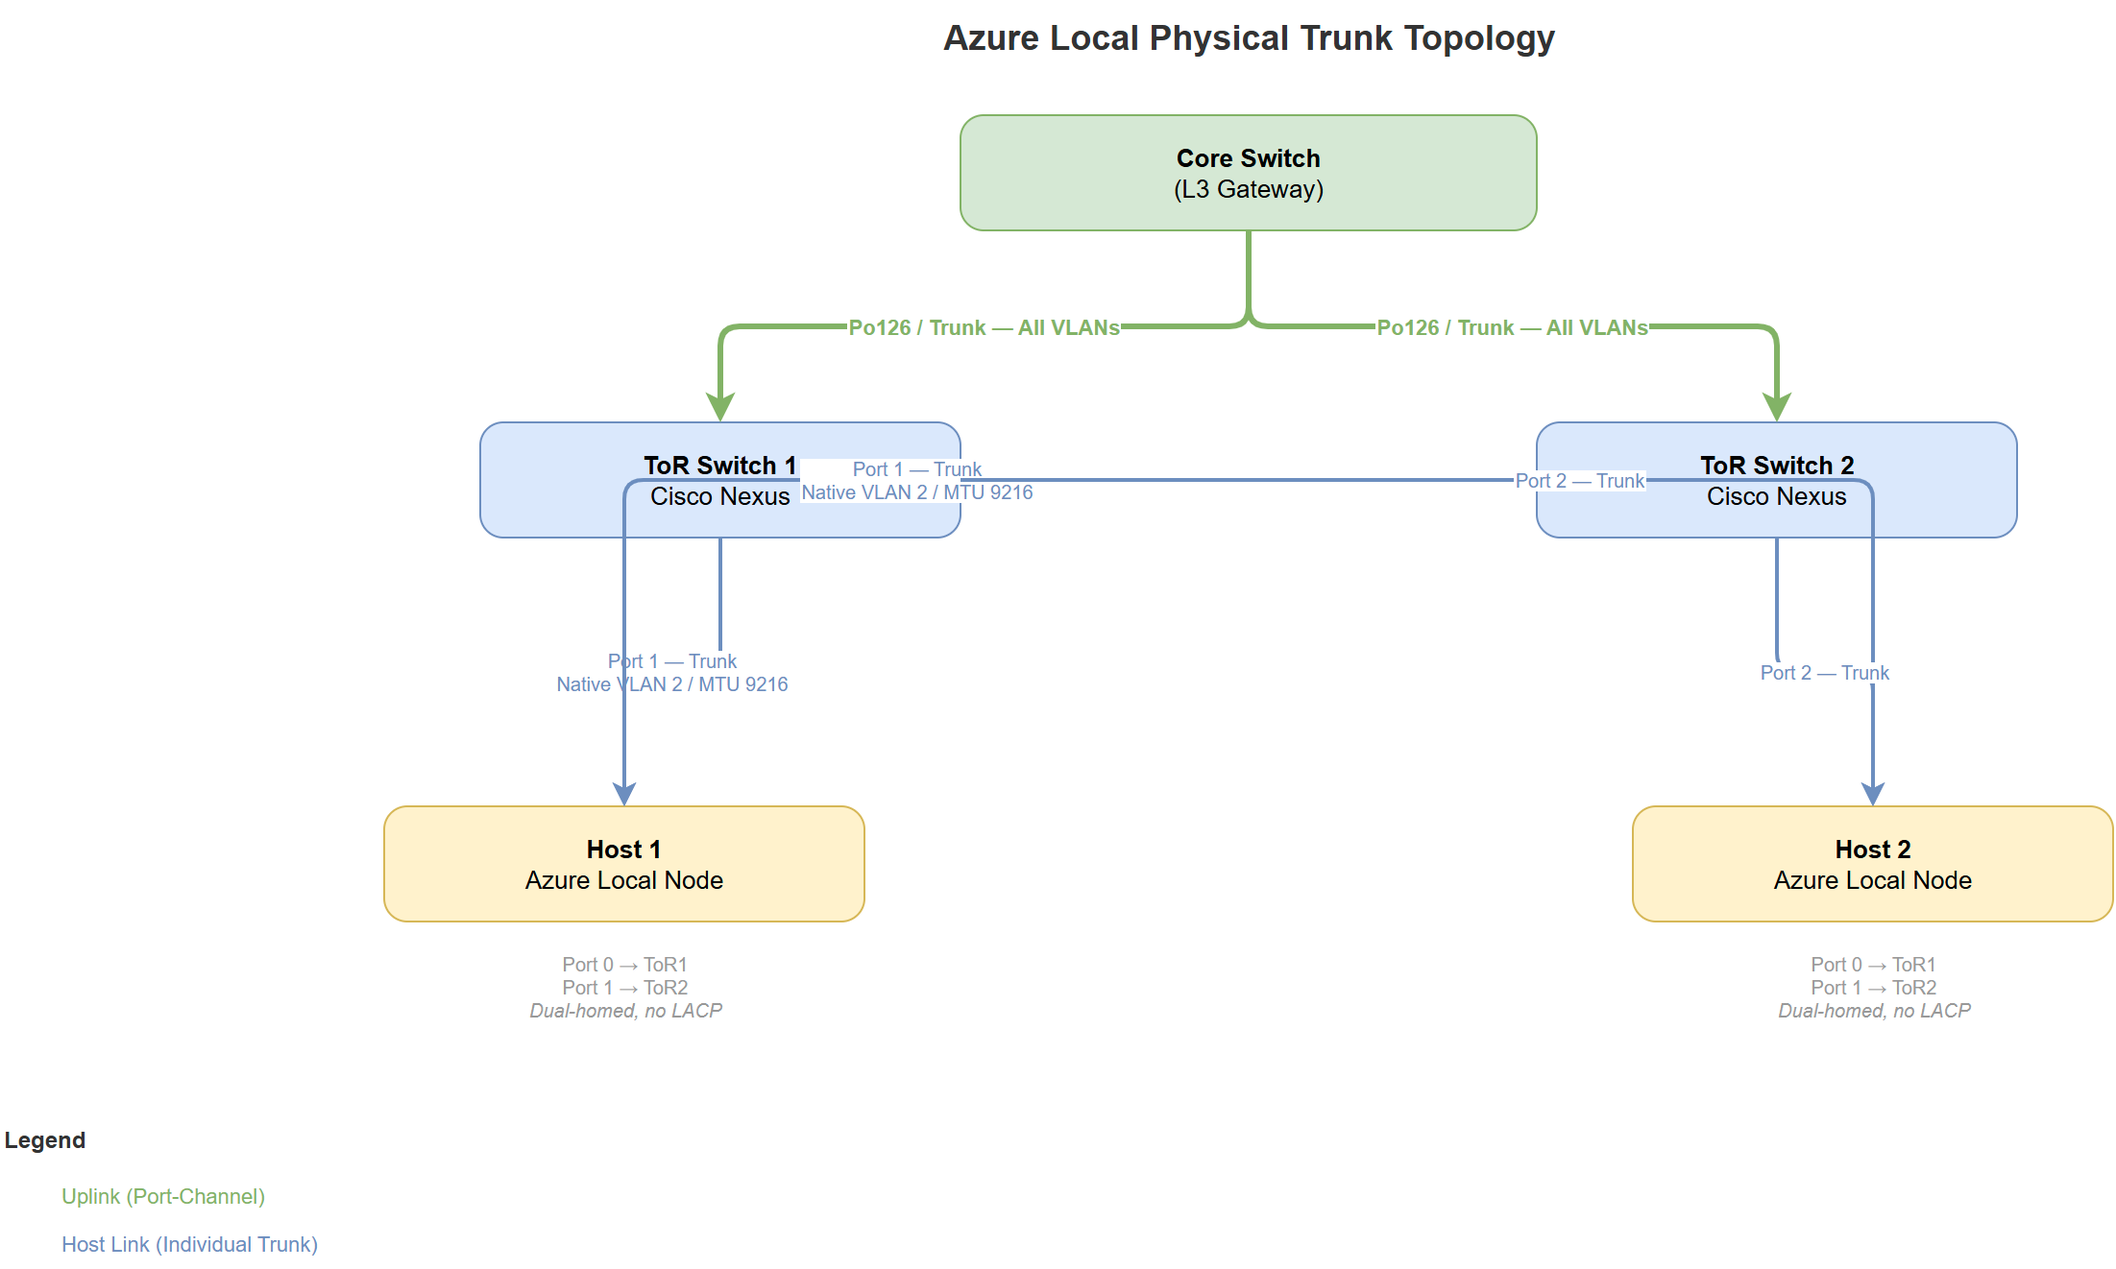
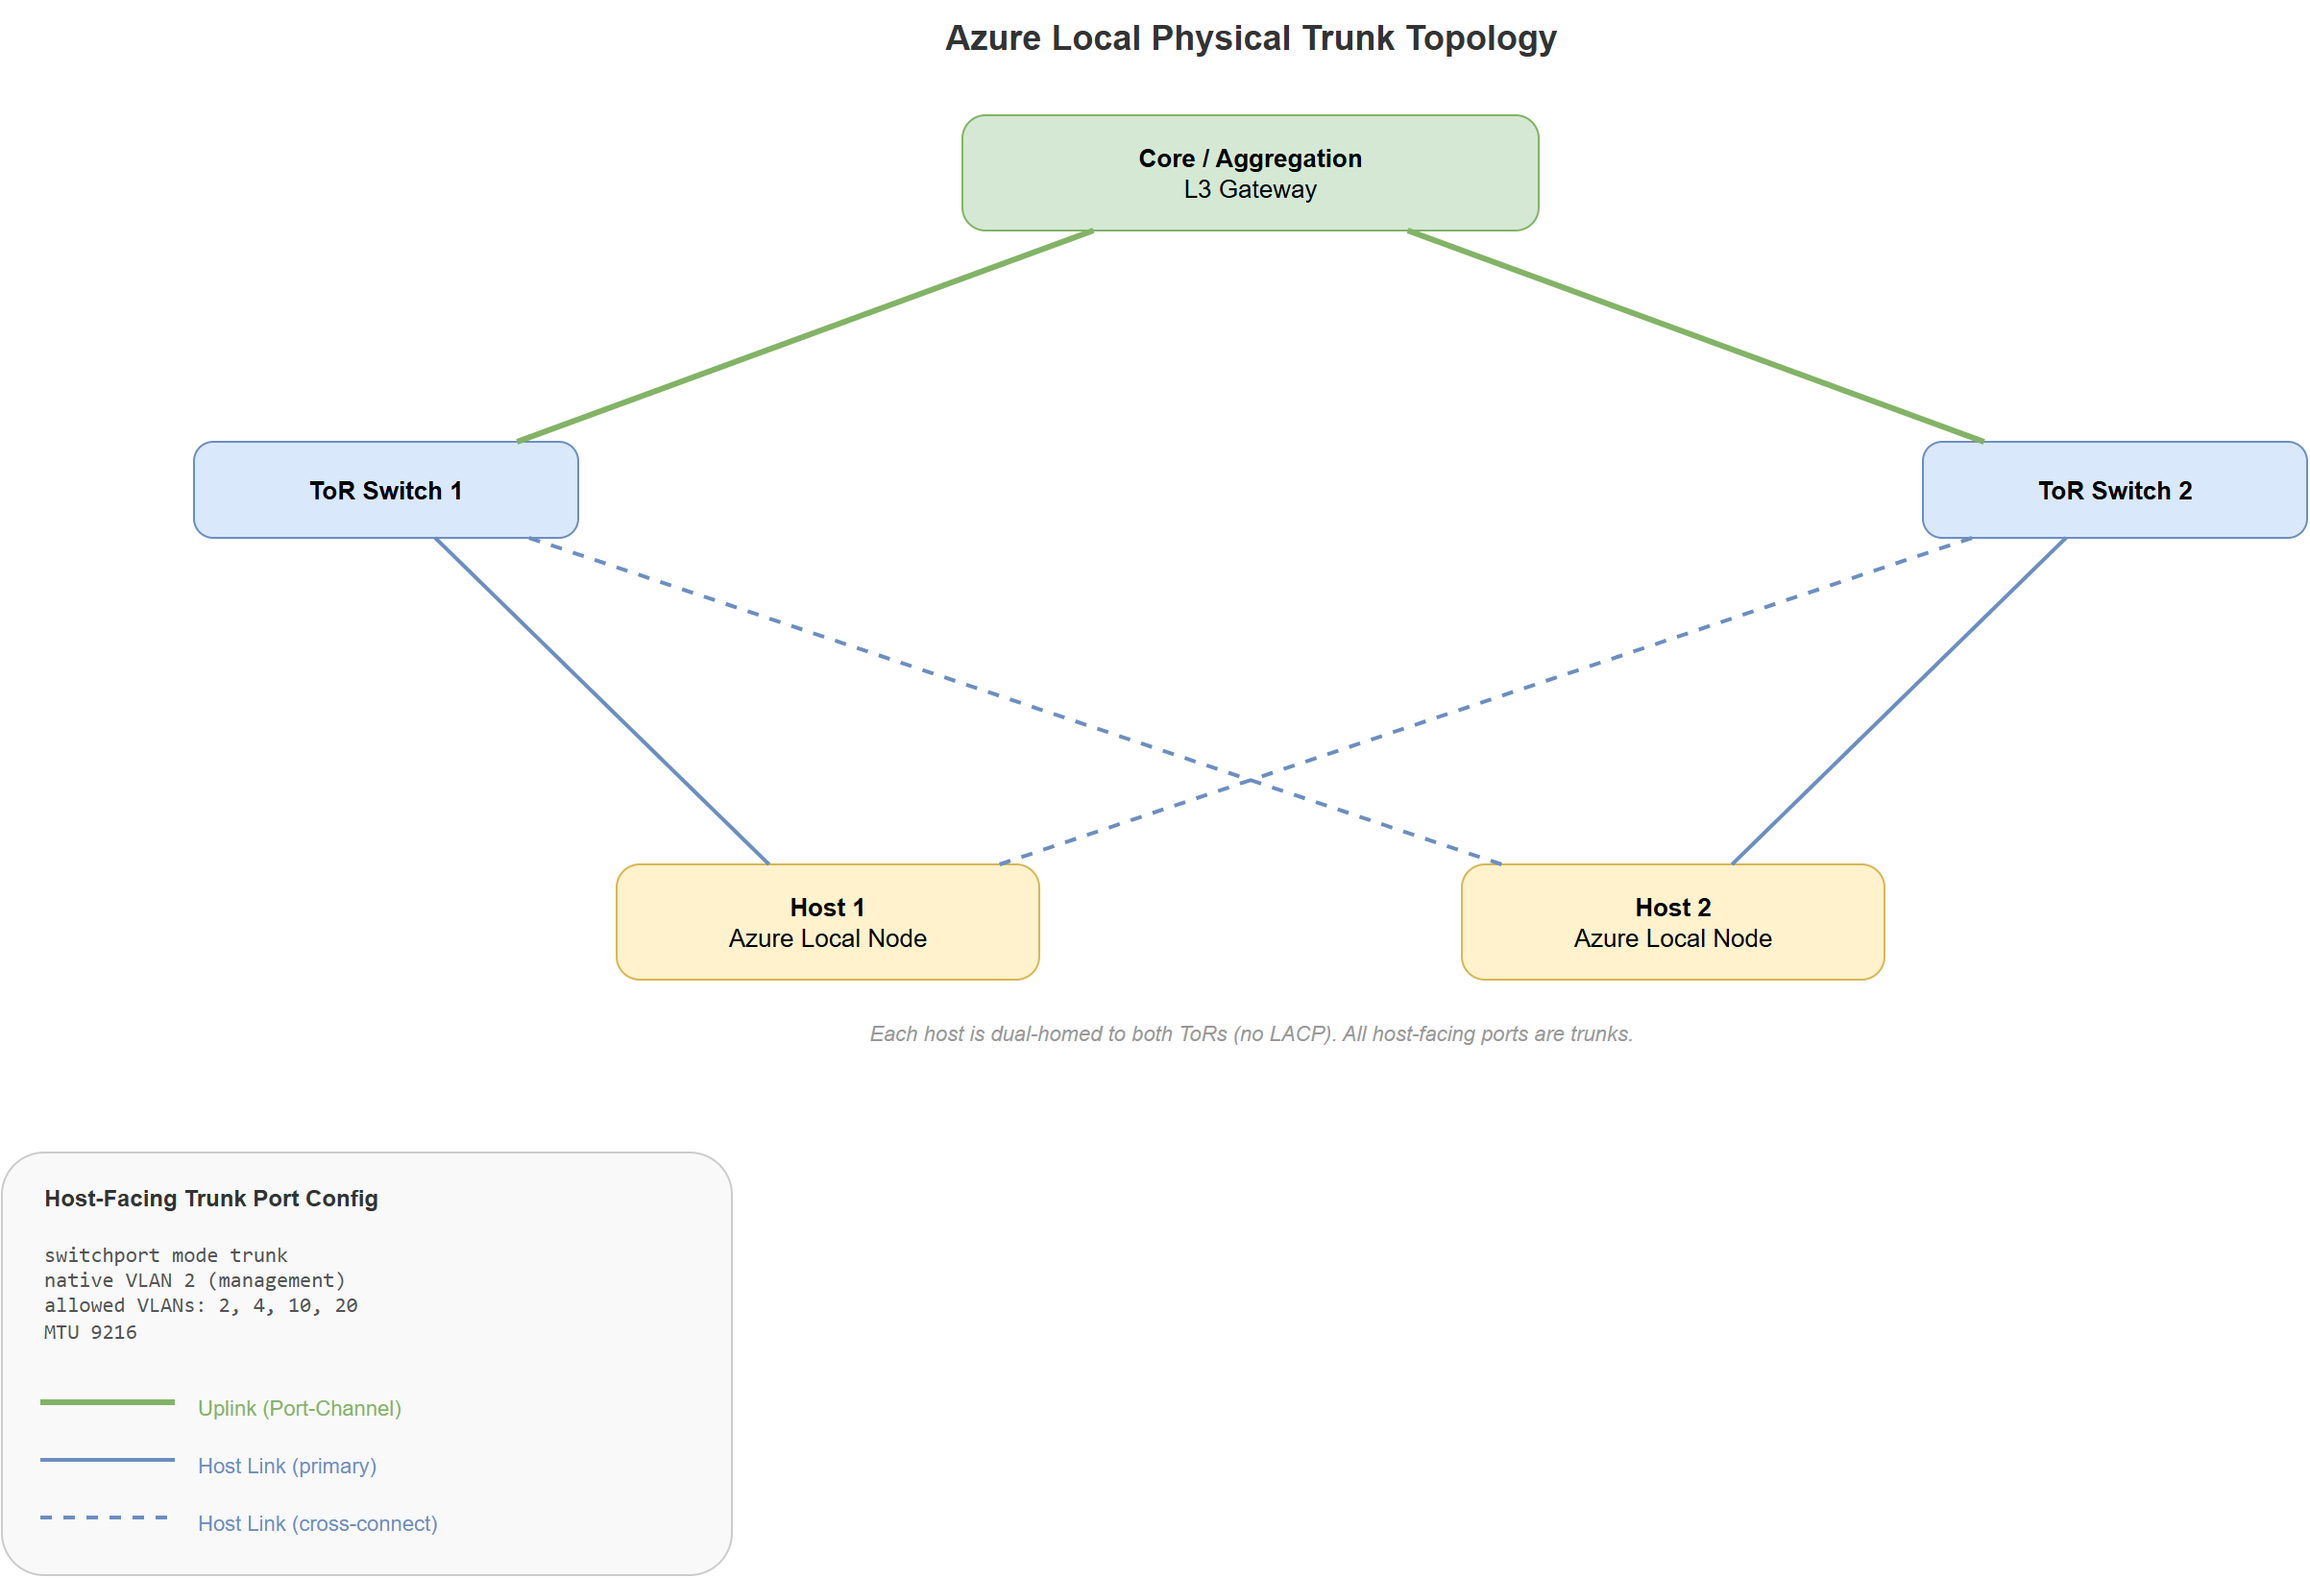
fix: redesign topology diagram and scope article to tenant workloads
- Redesigned diagram 01 with straight edges and dashed cross-connects
  to eliminate text/line overlap through ToR boxes
- Reframed article intro: management uses native VLAN (just works),
  tenant VLANs are where trunk-mode mistakes happen
- Updated switch config callouts to distinguish management vs tenant
- Updated meta description for tenant workload focus

diff --git a/_drafts/2026-03-06-azure-local-vm-vlan-tagging-guide.md b/_drafts/2026-03-06-azure-local-vm-vlan-tagging-guide.md
@@ -5,23 +5,25 @@ date: 2026-03-06 00:00:00 -0800
 categories: [networking, azure-local]
 tags: [azure-local, hyper-v, vlan, trunking, vswitch, sriov, netintent, vm-networking]
 author: ebmarquez
-description: "Azure Local VMs in VLAN trunk mode work on one host but fail cross-host. Here's why Access mode with multiple vNICs is the correct pattern."
+description: "Azure Local tenant VMs in VLAN trunk mode work on one host but fail cross-host. Here's why Access mode with multiple vNICs is the correct pattern for tenant workloads."
 image:
   path: /assets/img/azure-local-vm-vlan-tagging/01-physical-trunk-topology.png
   alt: "Diagram showing host-to-ToR trunk topology in an Azure Local cluster"
 ---
 
-You've got a VM on Azure Local that needs to talk on VLAN 4. You configure the VM NIC in trunk mode, set up a VLAN sub-interface inside the guest, and test. It works — but only when the other VM is on the same host. The moment you try to reach a VM on a different host, nothing. ARP requests leave, but replies never come back.
+You've got a tenant VM on Azure Local that needs to talk on VLAN 4. You see the ToR switch port is a trunk carrying multiple VLANs, so you configure the VM NIC in trunk mode, set up a VLAN sub-interface inside the guest, and test. It works — but only when the other VM is on the same host. The moment you try to reach a VM on a different host, nothing. ARP requests leave, but replies never come back.
 
-This keeps coming up. It's one of the most common networking misconfigurations in Azure Local environments, and it's not obvious why it fails. The mental model from physical networking doesn't map cleanly to how Azure Local handles VLAN tagging.
+This keeps coming up, specifically with **tenant workloads**. In a typical Azure Local deployment, management traffic rides the native VLAN (untagged) and just works. But when customers need tenant VMs on tagged VLANs, they see those trunk ports on the ToR and assume the VM needs to do its own VLAN tagging. It doesn't — and that assumption is where things break.
 
-Let's fix that.
+Let's fix that mental model.
 
 ## The Physical Trunk — Quick Refresher
 
 Before we touch virtualization, let's ground ourselves in how physical trunking works. If you already live in this world, skip ahead.
 
-In a typical Azure Local deployment, each host connects to two Top-of-Rack (ToR) switches. These links carry **multiple VLANs** — management, storage, live migration, and VM workload traffic all share the same physical interfaces. That means the switch ports must be **trunk ports**, not access ports.
+In a typical Azure Local deployment, each host connects to two Top-of-Rack (ToR) switches. These links carry **multiple VLANs** — management, storage, live migration, and tenant VM traffic all share the same physical interfaces. That means the switch ports must be **trunk ports**.
+
+The important distinction: **management traffic uses the native VLAN** (untagged on the wire), while **tenant VLANs are tagged**. The switch handles both on the same trunk port — native VLAN for management, 802.1Q tags for everything else.
 
 ![Physical trunk topology showing hosts dual-homed to two ToR switches](/assets/img/azure-local-vm-vlan-tagging/01-physical-trunk-topology.png)
 _Each host is dual-homed to two ToR switches. All host-facing ports are trunks carrying multiple VLANs._
@@ -41,10 +43,11 @@ Key points:
 
 - **Trunk mode** means the port sends and receives 802.1Q tagged frames
 - **Allowed VLANs** restrict which VLANs can traverse this link
-- **Native VLAN** handles untagged traffic — anything without a tag gets assigned to VLAN 2
+- **Native VLAN 2** is management — this traffic is untagged on the wire and just works
+- **VLANs 4, 10, 20** are tenant VLANs — these are the tagged VLANs where the tagging question matters
 - The host-to-switch link is always a trunk because multiple traffic types share it
 
-This is straightforward. The complexity starts when you add the Hyper-V virtual switch into the picture.
+This is where the confusion starts. Admins see "trunk" on the physical port and assume tenant VMs need trunk mode too. They don't.
 
 ## The Three Hyper-V VLAN Modes
 
@@ -61,7 +64,7 @@ Set-VMNetworkAdapterVlan -VMName 'myVM' -Untagged
 
 The VM sends plain Ethernet frames. The vSwitch passes them through without modification. On the wire, they arrive at the switch **untagged**, and the switch assigns them to whatever native VLAN is configured on that trunk port.
 
-Use this when the VM only needs to be on the native VLAN and the switch port handles everything.
+This is how **management traffic** works on Azure Local — it rides the native VLAN without any VLAN configuration on the VM. For tenant workloads that need a specific VLAN, you need one of the next two modes.
 
 ### Mode 2: Access (Recommended for Azure Local)
 
